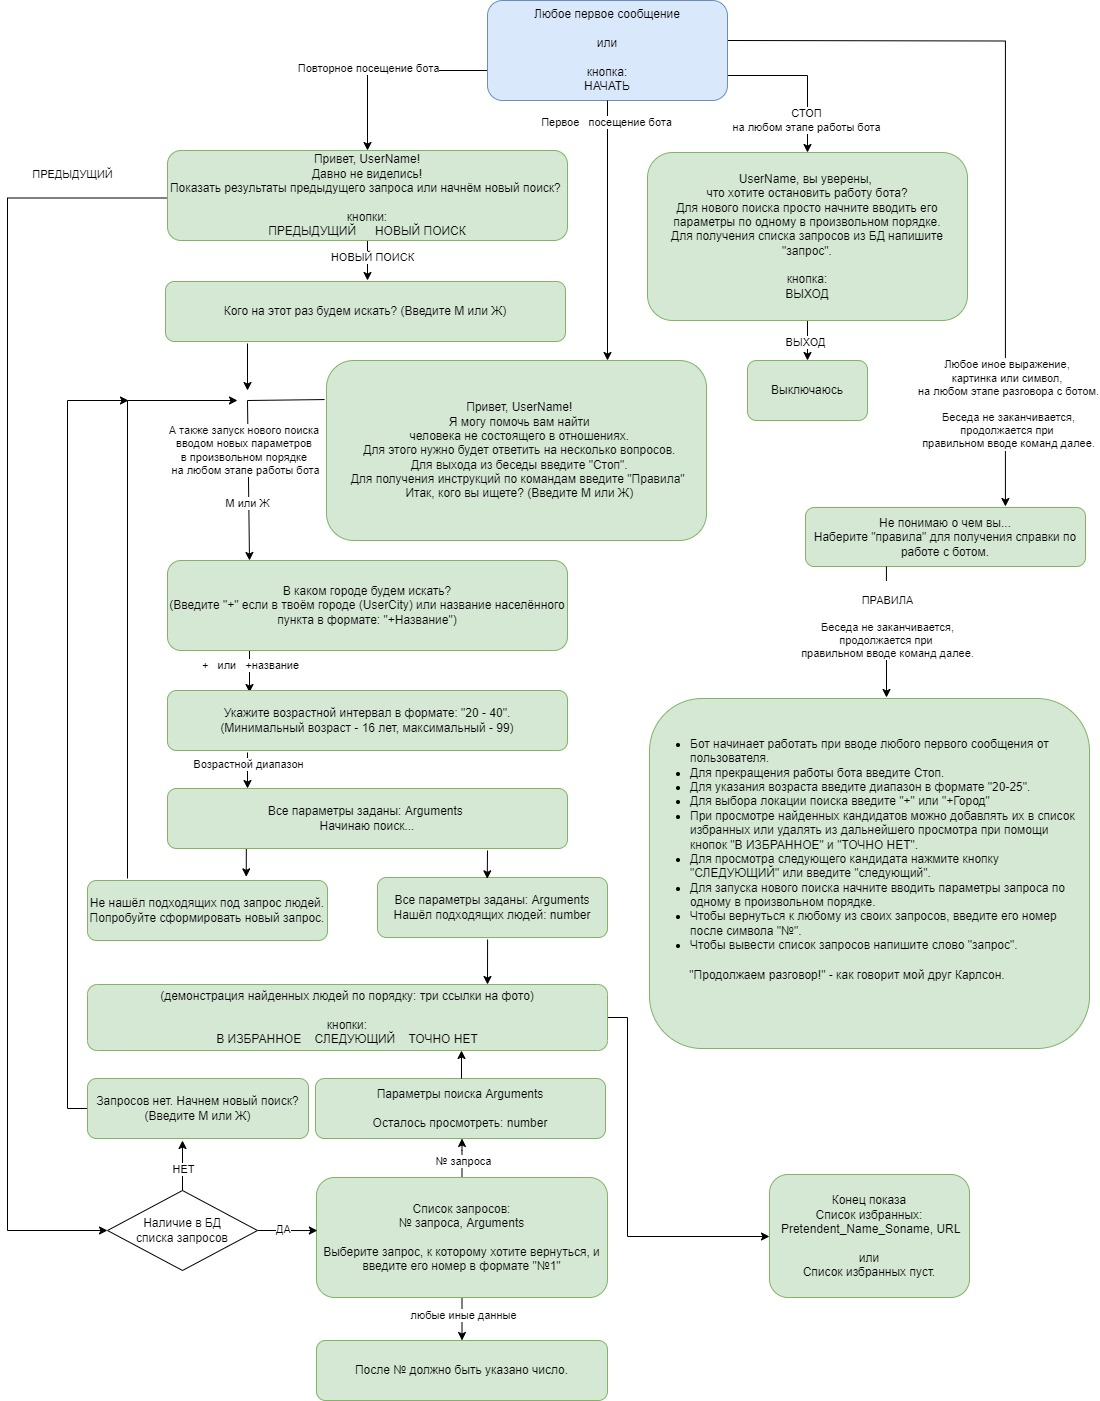
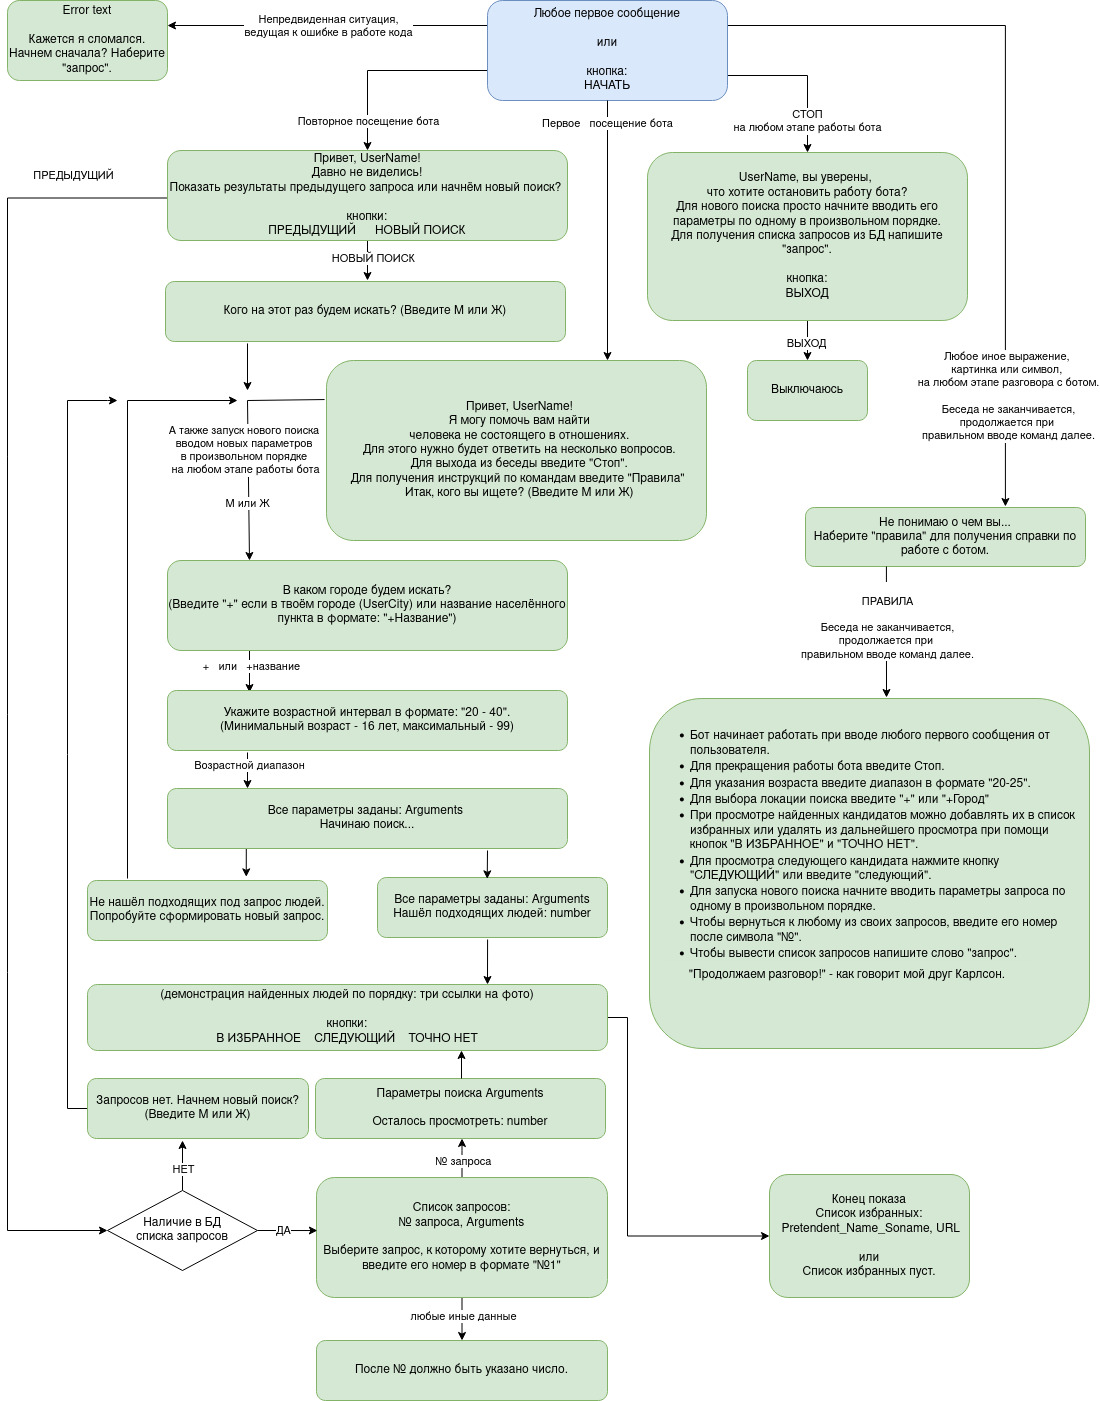
fixed finder, log_module, bot_dialog

diff --git a/bot_api/finder.py b/bot_api/finder.py
@@ -29,7 +29,9 @@ class VK_Finder:
                                    key=lambda x: x.get('likes', {}).get('count', 0),
                                    reverse=True)  # Сортировка по лайкам
             for photo in sorted_photos[:3]:
-                photo_urls.append(photo['sizes'][-1]['url'])
+                name = 'photo' + str(photo['owner_id']) + '_' + str(photo['id'])
+                photo_urls.append(name)
+                # photo_urls.append(photo['sizes'][-1]['url'])
         return photo_urls
 
     def get_pretendents(self, age_from, age_to, gender, city) -> list:

diff --git a/log_module.py b/log_module.py
@@ -19,6 +19,6 @@ def logger(path):
                 error = sys.exc_info()[1]
                 result = f'Ошибка: {error.args[0]}'
                 logging.info(f'Результат: {result}')
-                return f'{result}\nКажется я сломался...\nДавай начнем сначала? Наберите "запрос".'
+                return f'{result}\nКажется я сломался...\nНачнем сначала? Наберите "запрос".'
         return new_function
     return __logger
